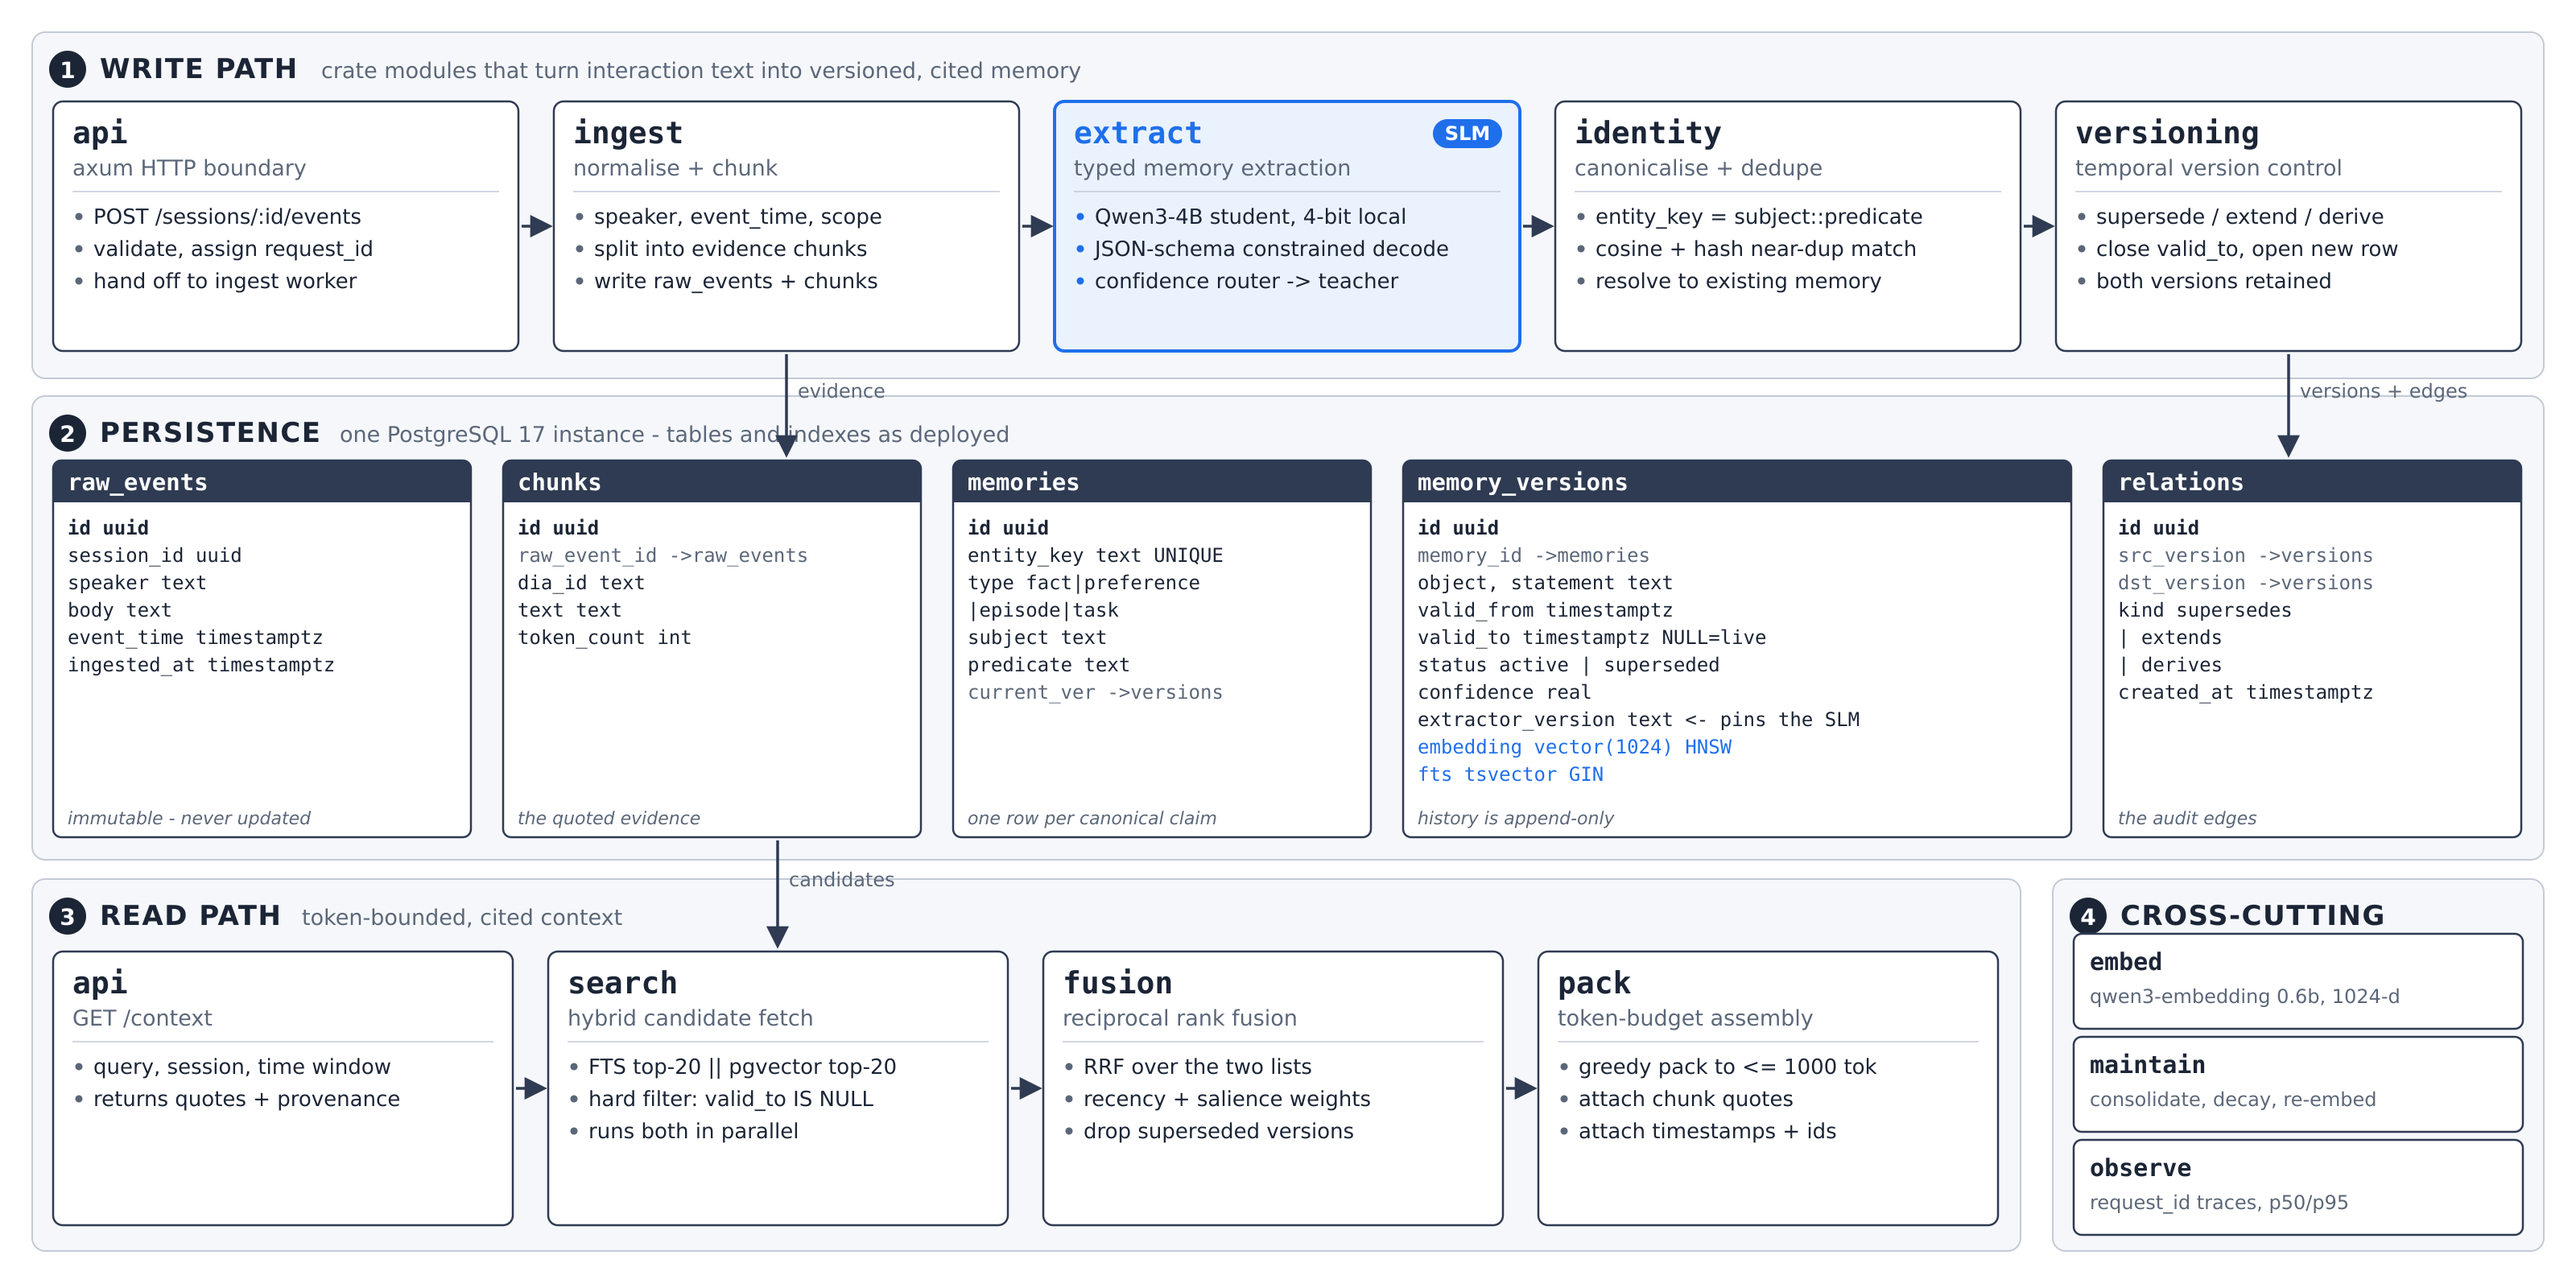
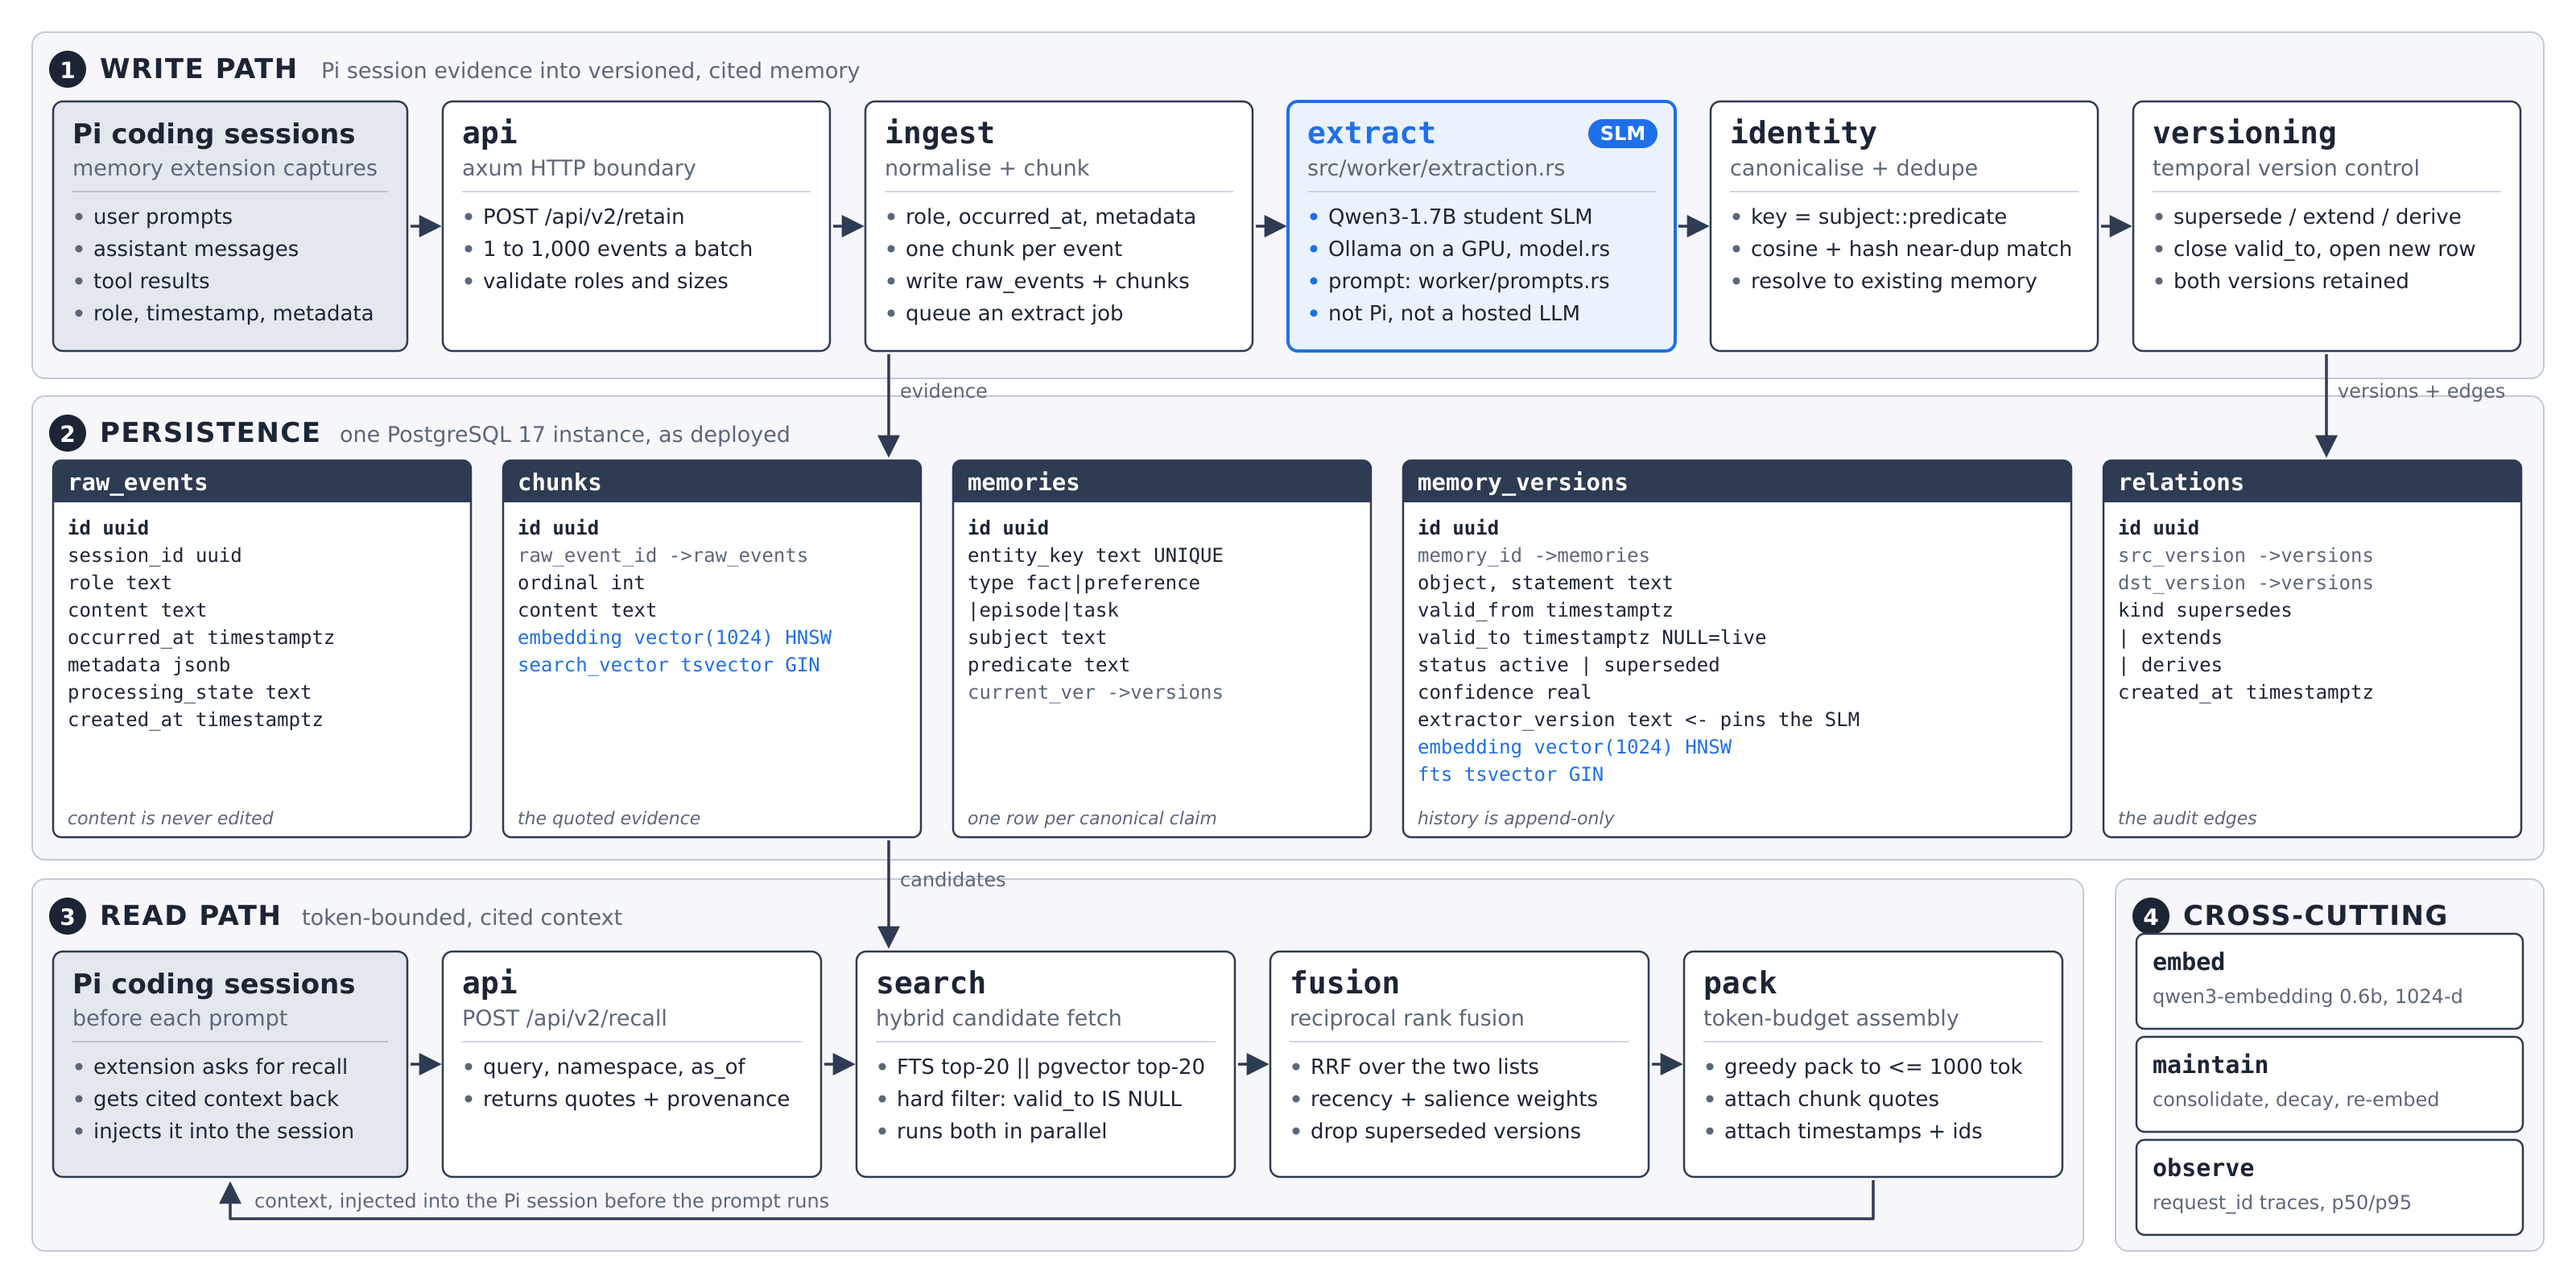
Show Pi coding sessions as the input of the architecture diagram
The write path now starts at the Pi coding session (user prompts, assistant
messages and tool results captured by the memory extension) and the read path
returns recalled context to it. The extraction box names the student model
served by Ollama instead of Pi or a hosted model.

diff --git a/slm-distill/diagrams/arch.py b/slm-distill/diagrams/arch.py
@@ -4,6 +4,14 @@ Module-level, not function-level: every box is a Rust module that exists in the
 crate. Database tables are drawn with their actual columns so the panel can see
 what is stored, not just that "a database" exists.
 
+The input is real: Pi coding sessions (the one grey actor box, outside the crate).
+The Pi memory extension captures each
+session's user prompts, assistant messages and tool results (role, timestamp,
+metadata), sends them as evidence batches to the retain API, and before every
+prompt asks the recall API and injects the cited context back into the session.
+Extraction is done by the fine-tuned student SLM (Qwen3-1.7B served by Ollama on
+a GPU). Pi and its API key serve only the live coding session.
+
     python diagrams/arch.py && rsvg-convert -w 3200 diagrams/arch.svg -o diagrams/arch.png
 """
 
@@ -19,6 +27,7 @@ BOX_LINE = "#2F3B52"
 ACC = "#1F6FEB"  # accent: the SLM subsystem
 ACC_BG = "#EAF2FE"
 HDR = "#2F3B52"  # table header bar
+ACTOR_BG = "#E3E8EF"  # actor outside the crate (Pi coding sessions)
 
 SANS = "DejaVu Sans, Helvetica, Arial, sans-serif"
 MONO = "DejaVu Sans Mono, Menlo, Consolas, monospace"
@@ -95,6 +104,34 @@ def module(x, y, w, h, name, role, bullets, accent=False):
         ty += 40
 
 
+def actor(x, y, w, h, name, role, bullets):
+    """An actor outside the crate: grey fill, sans-serif name (not a Rust module)."""
+    e(
+        f'<rect x="{x}" y="{y}" width="{w}" height="{h}" rx="12" fill="{ACTOR_BG}" '
+        f'stroke="{BOX_LINE}" stroke-width="2.5"/>'
+    )
+    e(
+        f'<text x="{x+24}" y="{y+52}" font-family="{SANS}" font-size="34" font-weight="700" '
+        f'fill="{INK}">{esc(name)}</text>'
+    )
+    e(
+        f'<text x="{x+24}" y="{y+92}" font-family="{SANS}" font-size="27" fill="{MUTED}">'
+        f"{esc(role)}</text>"
+    )
+    e(
+        f'<line x1="{x+24}" y1="{y+112}" x2="{x+w-24}" y2="{y+112}" stroke="#AEB6C4" '
+        f'stroke-width="1.5"/>'
+    )
+    ty = y + 152
+    for b in bullets:
+        e(f'<circle cx="{x+32}" cy="{ty-9}" r="4.5" fill="{MUTED}"/>')
+        e(
+            f'<text x="{x+50}" y="{ty}" font-family="{SANS}" font-size="26" fill="{INK}">'
+            f"{esc(b)}</text>"
+        )
+        ty += 40
+
+
 def table(x, y, w, h, name, cols, note=""):
     e(
         f'<rect x="{x}" y="{y}" width="{w}" height="{h}" rx="10" fill="#FFFFFF" '
@@ -152,6 +189,8 @@ e("</defs>")
 e(f'<rect width="{W}" height="{H}" fill="#FFFFFF"/>')
 
 # ---------------------------------------------------------------- 1 write path
+# The leftmost box of both paths is the real input and consumer: Pi coding sessions.
+PW, GAP = 440, 44  # width of the Pi box, gap that carries the arrows
 band(
     40,
     40,
@@ -159,10 +198,25 @@ band(
     430,
     "1",
     "WRITE PATH",
-    "crate modules that turn interaction text into versioned, cited memory",
+    "Pi session evidence into versioned, cited memory",
 )
-MW, MH, MY = 578, 310, 126
-xs = [66, 688, 1310, 1932, 2554]
+MH, MY = 310, 126
+MW = (3068 - PW - 5 * GAP) // 5
+xs = [66 + PW + GAP + i * (MW + GAP) for i in range(5)]
+actor(
+    66,
+    MY,
+    PW,
+    MH,
+    "Pi coding sessions",
+    "memory extension captures",
+    [
+        "user prompts",
+        "assistant messages",
+        "tool results",
+        "role, timestamp, metadata",
+    ],
+)
 module(
     xs[0],
     MY,
@@ -171,9 +225,9 @@ module(
     "api",
     "axum HTTP boundary",
     [
-        "POST /sessions/:id/events",
-        "validate, assign request_id",
-        "hand off to ingest worker",
+        "POST /api/v2/retain",
+        "1 to 1,000 events a batch",
+        "validate roles and sizes",
     ],
 )
 module(
@@ -184,9 +238,10 @@ module(
     "ingest",
     "normalise + chunk",
     [
-        "speaker, event_time, scope",
-        "split into evidence chunks",
+        "role, occurred_at, metadata",
+        "one chunk per event",
         "write raw_events + chunks",
+        "queue an extract job",
     ],
 )
 module(
@@ -195,11 +250,12 @@ module(
     MW,
     MH,
     "extract",
-    "typed memory extraction",
+    "src/worker/extraction.rs",
     [
-        "Qwen3-4B student, 4-bit local",
-        "JSON-schema constrained decode",
-        "confidence router -> teacher",
+        "Qwen3-1.7B student SLM",
+        "Ollama on a GPU, model.rs",
+        "prompt: worker/prompts.rs",
+        "not Pi, not a hosted LLM",
     ],
     accent=True,
 )
@@ -211,7 +267,7 @@ module(
     "identity",
     "canonicalise + dedupe",
     [
-        "entity_key = subject::predicate",
+        "key = subject::predicate",
         "cosine + hash near-dup match",
         "resolve to existing memory",
     ],
@@ -229,8 +285,16 @@ module(
         "both versions retained",
     ],
 )
-for i in range(4):
-    arrow(xs[i] + MW + 4, MY + MH / 2, xs[i + 1] - 6, MY + MH / 2)
+# Pi -> api, then api -> ingest -> extract -> identity -> versioning
+write_boxes = [66] + xs
+write_w = [PW] + [MW] * 5
+for i in range(5):
+    arrow(
+        write_boxes[i] + write_w[i] + 4,
+        MY + MH / 2,
+        write_boxes[i + 1] - 6,
+        MY + MH / 2,
+    )
 
 # --------------------------------------------------------------- 2 persistence
 band(
@@ -240,7 +304,7 @@ band(
     576,
     "2",
     "PERSISTENCE",
-    "one PostgreSQL 17 instance - tables and indexes as deployed",
+    "one PostgreSQL 17 instance, as deployed",
 )
 TY, TH = 572, 468
 table(
@@ -250,14 +314,16 @@ table(
     TH,
     "raw_events",
     [
-        ("id           uuid", "pk"),
-        ("session_id   uuid", ""),
-        ("speaker      text", ""),
-        ("body         text", ""),
-        ("event_time   timestamptz", ""),
-        ("ingested_at  timestamptz", ""),
+        ("id               uuid", "pk"),
+        ("session_id       uuid", ""),
+        ("role             text", ""),
+        ("content          text", ""),
+        ("occurred_at      timestamptz", ""),
+        ("metadata         jsonb", ""),
+        ("processing_state text", ""),
+        ("created_at       timestamptz", ""),
     ],
-    "immutable - never updated",
+    "content is never edited",
 )
 table(
     625,
@@ -268,9 +334,10 @@ table(
     [
         ("id           uuid", "pk"),
         ("raw_event_id ->raw_events", "fk"),
-        ("dia_id       text", ""),
-        ("text         text", ""),
-        ("token_count  int", ""),
+        ("ordinal      int", ""),
+        ("content      text", ""),
+        ("embedding    vector(1024) HNSW", "idx"),
+        ("search_vector tsvector GIN", "idx"),
     ],
     "the quoted evidence",
 )
@@ -329,21 +396,38 @@ table(
     "the audit edges",
 )
 
-arrow(977, MY + MH + 4, 977, TY - 8, "evidence")
-arrow(2843, MY + MH + 4, 2843, TY - 8, "versions + edges")
+# The evidence leaves ingest and lands in raw_events + chunks; the same x carries the
+# candidates back out of chunks into the read path.
+EVX = 1104
+arrow(EVX, MY + MH + 4, EVX, TY - 8, "evidence")
+arrow(xs[4] + MW // 2, MY + MH + 4, xs[4] + MW // 2, TY - 8, "versions + edges")
 
 # ----------------------------------------------------------------- 3 read path
-band(40, 1092, 2470, 462, "3", "READ PATH", "token-bounded, cited context")
-RW, RH, RY = 571, 340, 1182
-rxs = [66, 681, 1296, 1911]
+READ_W = 2548  # band width; leaves the cross-cutting band 532 px
+band(40, 1092, READ_W, 462, "3", "READ PATH", "token-bounded, cited context")
+RW, RH, RY = 470, 280, 1182
+rxs = [66 + PW + GAP + i * (RW + GAP) for i in range(4)]
+actor(
+    66,
+    RY,
+    PW,
+    RH,
+    "Pi coding sessions",
+    "before each prompt",
+    [
+        "extension asks for recall",
+        "gets cited context back",
+        "injects it into the session",
+    ],
+)
 module(
     rxs[0],
     RY,
     RW,
     RH,
     "api",
-    "GET /context",
-    ["query, session, time window", "returns quotes + provenance"],
+    "POST /api/v2/recall",
+    ["query, namespace, as_of", "returns quotes + provenance"],
 )
 module(
     rxs[1],
@@ -380,13 +464,35 @@ module(
     "token-budget assembly",
     ["greedy pack to <= 1000 tok", "attach chunk quotes", "attach timestamps + ids"],
 )
-for i in range(3):
-    arrow(rxs[i] + RW + 4, RY + RH / 2, rxs[i + 1] - 6, RY + RH / 2)
-arrow(966, TY + TH + 4, 966, RY - 8, "candidates")
+# Pi -> api (the recall request), then api -> search -> fusion -> pack
+read_boxes = [66] + rxs
+read_w = [PW] + [RW] * 4
+for i in range(4):
+    arrow(
+        read_boxes[i] + read_w[i] + 4,
+        RY + RH / 2,
+        read_boxes[i + 1] - 6,
+        RY + RH / 2,
+    )
+arrow(EVX, TY + TH + 4, EVX, RY - 8, "candidates")
+# The returning arrow: pack -> back under the modules -> up into the Pi session.
+RET_Y = RY + RH + 52
+pack_cx = rxs[3] + RW // 2
+pi_cx = 66 + PW // 2
+e(
+    f'<polyline points="{pack_cx},{RY+RH+4} {pack_cx},{RET_Y} {pi_cx},{RET_Y} {pi_cx},{RY+RH+10}" '
+    f'fill="none" stroke="{BOX_LINE}" stroke-width="3.5" stroke-linejoin="round" '
+    f'marker-end="url(#arr)"/>'
+)
+e(
+    f'<text x="{pi_cx+30}" y="{RET_Y-14}" font-family="{SANS}" font-size="24" '
+    f'fill="{MUTED}">context, injected into the Pi session before the prompt runs</text>'
+)
 
 # ------------------------------------------------------------- 4 cross-cutting
-band(2550, 1092, 610, 462, "4", "CROSS-CUTTING")
-cx, cw = 2576, 558
+CX0 = 40 + READ_W + 40
+band(CX0, 1092, 3160 - CX0, 462, "4", "CROSS-CUTTING")
+cx, cw = CX0 + 26, 3160 - CX0 - 52
 for i, (nm, txt) in enumerate(
     [
         ("embed", "qwen3-embedding 0.6b, 1024-d"),
